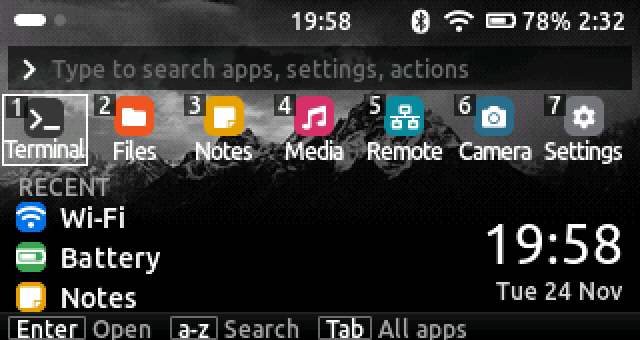
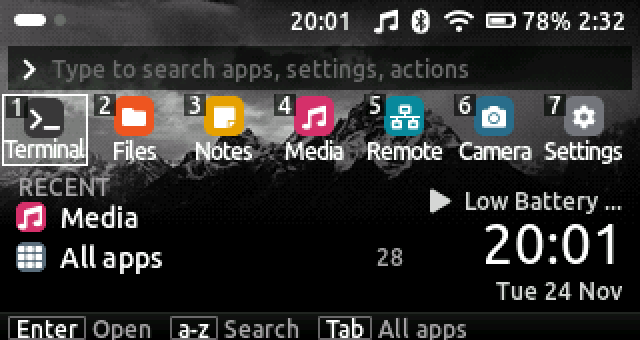
Home: what is playing, over the clock
The track playing or paused (play or pause mark, then its title) sits
right-aligned above the time in the bottom right corner, and goes when
playback stops. Read on the home screen's tick, redrawn only on change.

Claude-Session: https://claude.ai/code/session_01C4Fn595U5hyHZ62NFZj3hA

diff --git a/shell/src/ui/launcher.cpp b/shell/src/ui/launcher.cpp
@@ -1,5 +1,6 @@
 // Home (docs/UX.md): a search box, the pinned apps on 1 to 7, what you opened
-// last, and All apps, with the time and date in the corner. Typing searches apps, settings and actions; Enter (or
+// last, and All apps, with what is playing, the time and the date in the
+// corner. Typing searches apps, settings and actions; Enter (or
 // the result's number) opens the one in focus.
 //
 //   home      letters search; 1-7 pinned; Up/Down/Left/Right move; Enter opens;
@@ -20,6 +21,7 @@
 #include "hal/hal.h"
 #include "platform/keys.h"
 #include "ui/list_view.h"
+#include "ui/player.h"
 #include "ui/power.h"
 #include "ui/prefs.h"
 #include "ui/quick_panel.h"
@@ -328,9 +330,20 @@ public:
         show_home();
     }
 
-    // Home's clock, once a minute.
+    // Home's clock, once a minute, and what is playing.
     void tick() override {
         if (!time_) return;
+        PlaybackState pb = hal().playback();
+        std::string playing;
+        if (!pb.path.empty()) {
+            const QueueItem* q = player_current();
+            playing = std::string(pb.paused ? LV_SYMBOL_PAUSE "  " : LV_SYMBOL_PLAY "  ") +
+                      (q ? q->title : pb.path.substr(pb.path.rfind('/') + 1));
+        }
+        if (playing != shown_playing_) {
+            shown_playing_ = playing;
+            lv_label_set_text(playing_, playing.c_str());
+        }
         time_t now = time(nullptr);
         tm lt{};
         localtime_r(&now, &lt);
@@ -408,7 +421,7 @@ private:
         open_ids_.clear();
         row_runs_.clear();
         results_.reset();   // their rows went with the screen
-        time_ = date_ = nullptr;
+        time_ = date_ = playing_ = nullptr;
         all_.reset();
         box_ = nullptr;
         all_head_ = nullptr;
@@ -516,6 +529,13 @@ private:
         lv_obj_align(time_, LV_ALIGN_BOTTOM_RIGHT, -8, -18);
         date_ = label(root_, "", &zs_font_12, kGrey7);
         lv_obj_align(date_, LV_ALIGN_BOTTOM_RIGHT, -9, -3);
+        // Above them, the track playing or paused (none: nothing).
+        playing_ = label(root_, "", &zs_font_12, kGrey7);
+        lv_obj_set_size(playing_, kScreenW - kRowW - 14, 14);
+        lv_label_set_long_mode(playing_, LV_LABEL_LONG_DOT);
+        lv_obj_set_style_text_align(playing_, LV_TEXT_ALIGN_RIGHT, 0);
+        lv_obj_align(playing_, LV_ALIGN_BOTTOM_RIGHT, -9, -50);
+        shown_playing_.clear();
         shown_minute_ = -1;
         tick();
 
@@ -769,6 +789,8 @@ private:
     lv_obj_t* rows_box_ = nullptr;
     lv_obj_t* time_ = nullptr;
     lv_obj_t* date_ = nullptr;
+    lv_obj_t* playing_ = nullptr;
+    std::string shown_playing_;
     int shown_minute_ = -1;
     lv_obj_t* all_head_ = nullptr;
     std::string query_;

diff --git a/docs/UX.md b/docs/UX.md
@@ -149,15 +149,15 @@ This replaces today's "press D again" and "Del twice" patterns.
 
 ## Home
 
-Home is a search box, the pinned apps, what you used last, and the time and date in the bottom
-right corner. It replaces the app grid and the dock.
+Home is a search box, the pinned apps, what you used last, and in the bottom right corner the
+track playing (or paused), the time and the date. It replaces the app grid and the dock.
 
 ```
 ┌ 21:44 ─────────────────── ⚡78% ┐
 │ › _                              │  typing goes here
 │ ①Term ②Files ③Notes ④Media ⑤…   │  pinned: 1 to 9
 │ RECENT                           │
-│   Media · Night Drive ▶          │  opens where you left off
+│   Media · Night   ▶ Night Drive  │  what is playing, over the clock
 │   IR Remote · Living    21:44    │  the time and date, bottom right
 │   All apps         28 Tue 24 Nov │
 │ ⏎ Open  ↓ All apps  ⇥ Menu       │
